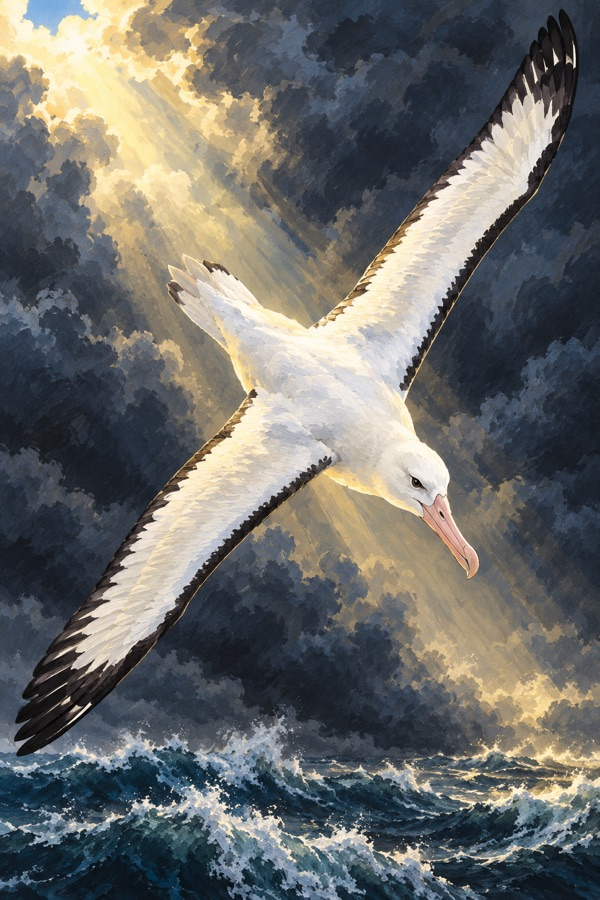
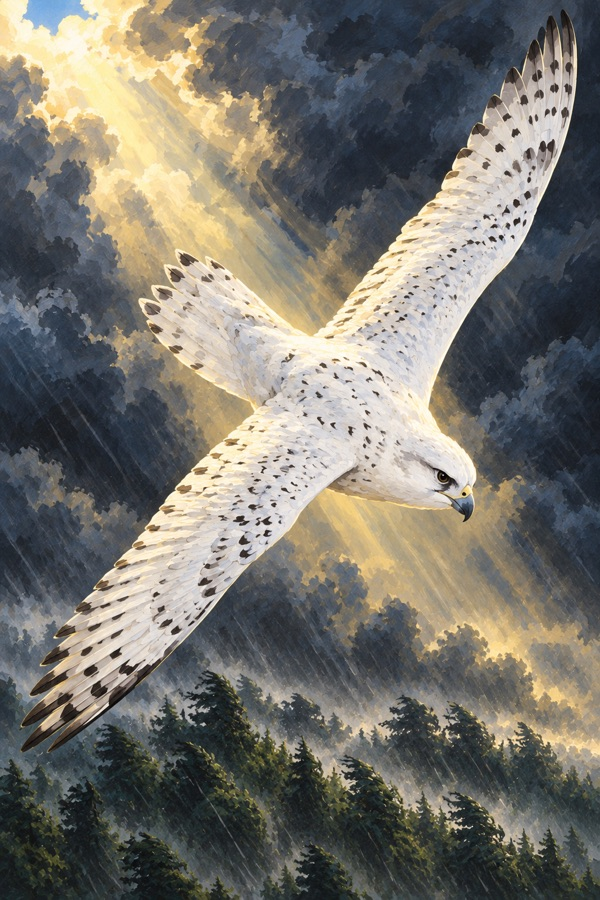
Art: Gale repainted as a white gyrfalcon in the storm over the forest (forest-17), shown again

diff --git a/animal_kingdom/web/static/art.js b/animal_kingdom/web/static/art.js
@@ -168,7 +168,7 @@ export const STRIP = {
   sloth: [.55, .29, 1], cape_buffalo: [.52, .38, 1], fathom: [.5, .48, 1.1], greywhisker: [.5, .29, 1], rat_king: [.52, .17, 1.2], scrooge: [.73, .4, 1.2],
   flying_squirrel: [.65, .42, 1.1], porcupine: [.23, .5, 1.5], chinchilla: [.75, .4, 1], armadillo: [.62, .42, 1], squirrel: [.62, .31, 1.1], chipmunk: [.8, .47, 1.3],
   hedgehog: [.47, .47, 1], hamster: [.52, .38, 1], muskrat: [.4, .38, 1.3], groundhog: [.58, .3, 1], gopher: [.62, .37, 1], verminus: [.7, .22, 1],
-  pestis: [.66, .48, 1], sirocco: [.62, .5, 1.2], gale: [.72, .56, 1.7], jerboa: [.73, .38, 1.3], hornet: [.5, .45, 1], chameleon: [.62, .28, 1.3],
+  pestis: [.66, .48, 1], sirocco: [.62, .5, 1.2], gale: [.76, .55, 1.7], jerboa: [.73, .38, 1.3], hornet: [.5, .45, 1], chameleon: [.62, .28, 1.3],
   skunk: [.28, .55, 1.3], lemming: [.82, .38, 1.4], cheetah: [.87, .4, 1.3], rat: [.8, .48, 1], falcon: [.8, .6, 1.7], bat: [.53, .44, 1.3],
   mouse: [.47, .33, 1], lobo: [.55, .38, 1.2], raksha: [.63, .38, 1.1], clarion: [.63, .16, 1.1], bush_dog: [.64, .3, 1.1], red_wolf: [.7, .32, 1.4],
   gray_wolf: [.8, .5, 1], fox: [.7, .4, 1.3], african_wild_dog: [.55, .3, 1.2], dingo: [.73, .25, 1.1], dog: [.67, .34, 1], alpha: [.6, .19, 1.2],
@@ -262,9 +262,8 @@ export const FULL = {
 const ALIAS = { tutorial_cape_buffalo: 'cape_buffalo', tutorial_dire_wolf: 'dire_wolf', tutorial_lynx: 'lynx', tutorial_chipmunk: 'chipmunk' };
 for (const [id, art] of Object.entries(ALIAS)) for (const T of [CROP, STRIP, FULL]) if (art in T) T[id] = T[art];
 // Cards whose painting shows an animal the card no longer is (the workbench changed its species): unpainted until
-// repainted, so they never wear another animal's art. Scrooge was painted a hamster (now a chipmunk), Gale an albatross
-// (now a falcon).
-for (const id of ['scrooge', 'gale']) for (const T of [CROP, STRIP, FULL]) delete T[id];
+// repainted, so they never wear another animal's art. Scrooge was painted a hamster (now a chipmunk).
+for (const id of ['scrooge']) for (const T of [CROP, STRIP, FULL]) delete T[id];
 export const hasArt = id => id in CROP;
 export const artUrl = id => `/static/art/${ALIAS[id] || id}.webp`;
 // A long grid's art loads as its cards near view in `scroller` (data-art, from cardHTML's `lazy`), not all hundred at once.
